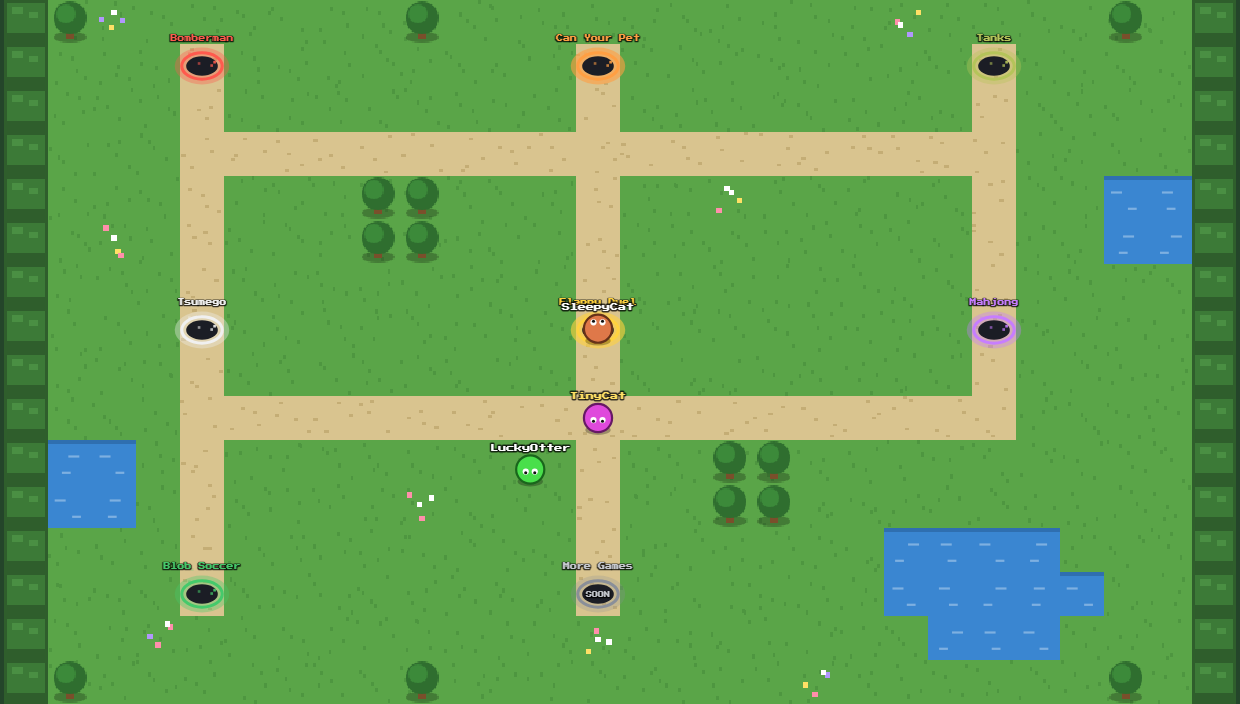
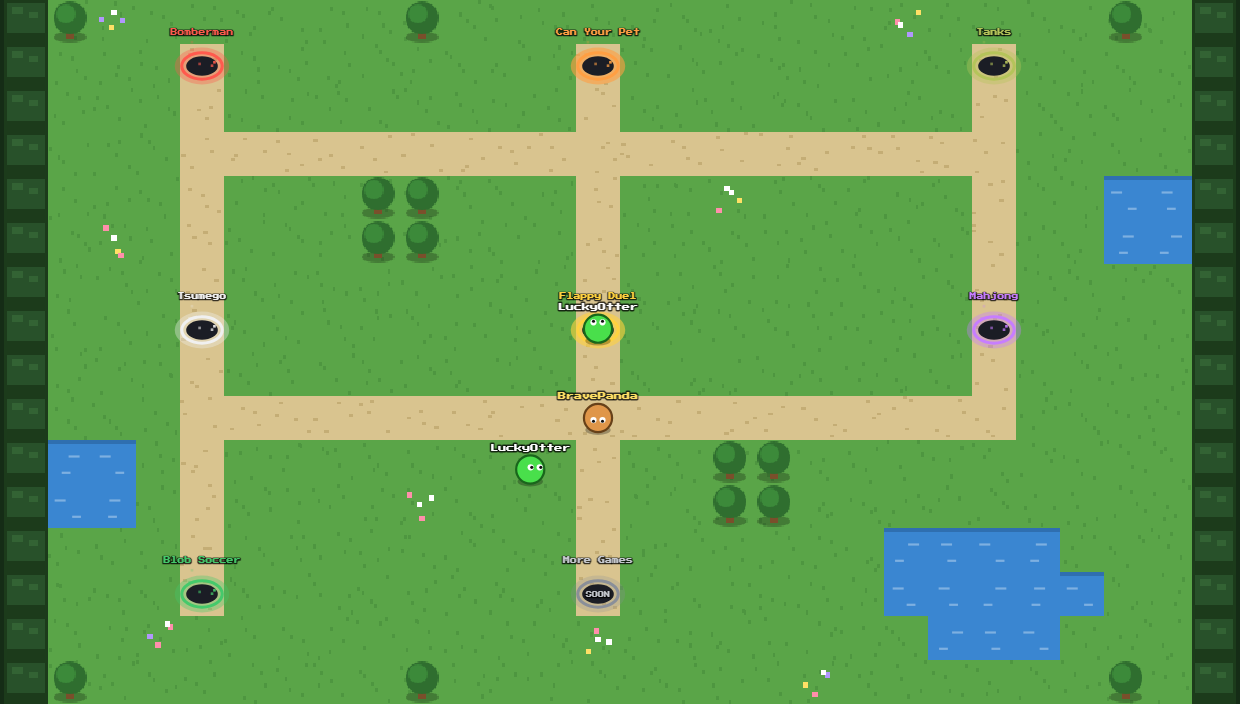
feat: add mine duel

diff --git a/js/projects.js b/js/projects.js
@@ -57,4 +57,11 @@ window.PROJECTS = [
     subdomain: "blobsoccer",
     image: "images/projects/blobsoccer.png",
   },
+  {
+    title: "Mine Duel",
+    description: "choose wisely",
+    subdomain: "mineduel",
+    image: "images/projects/mineduel.jpg",
+    author: "Jordan",
+  },
 ];
